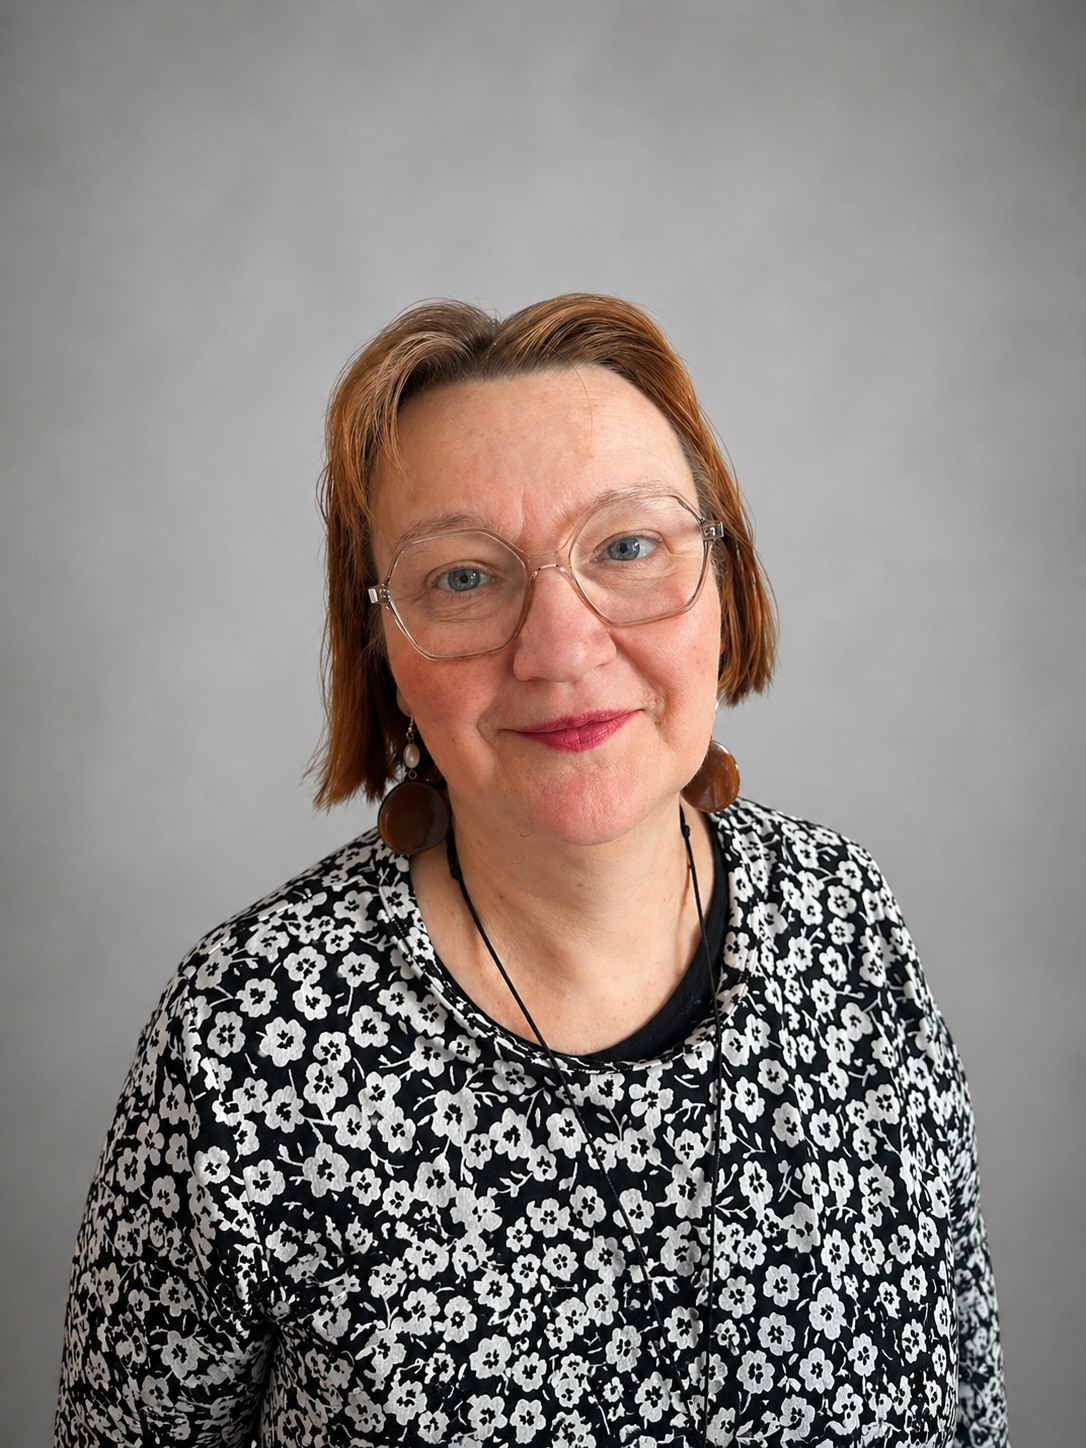
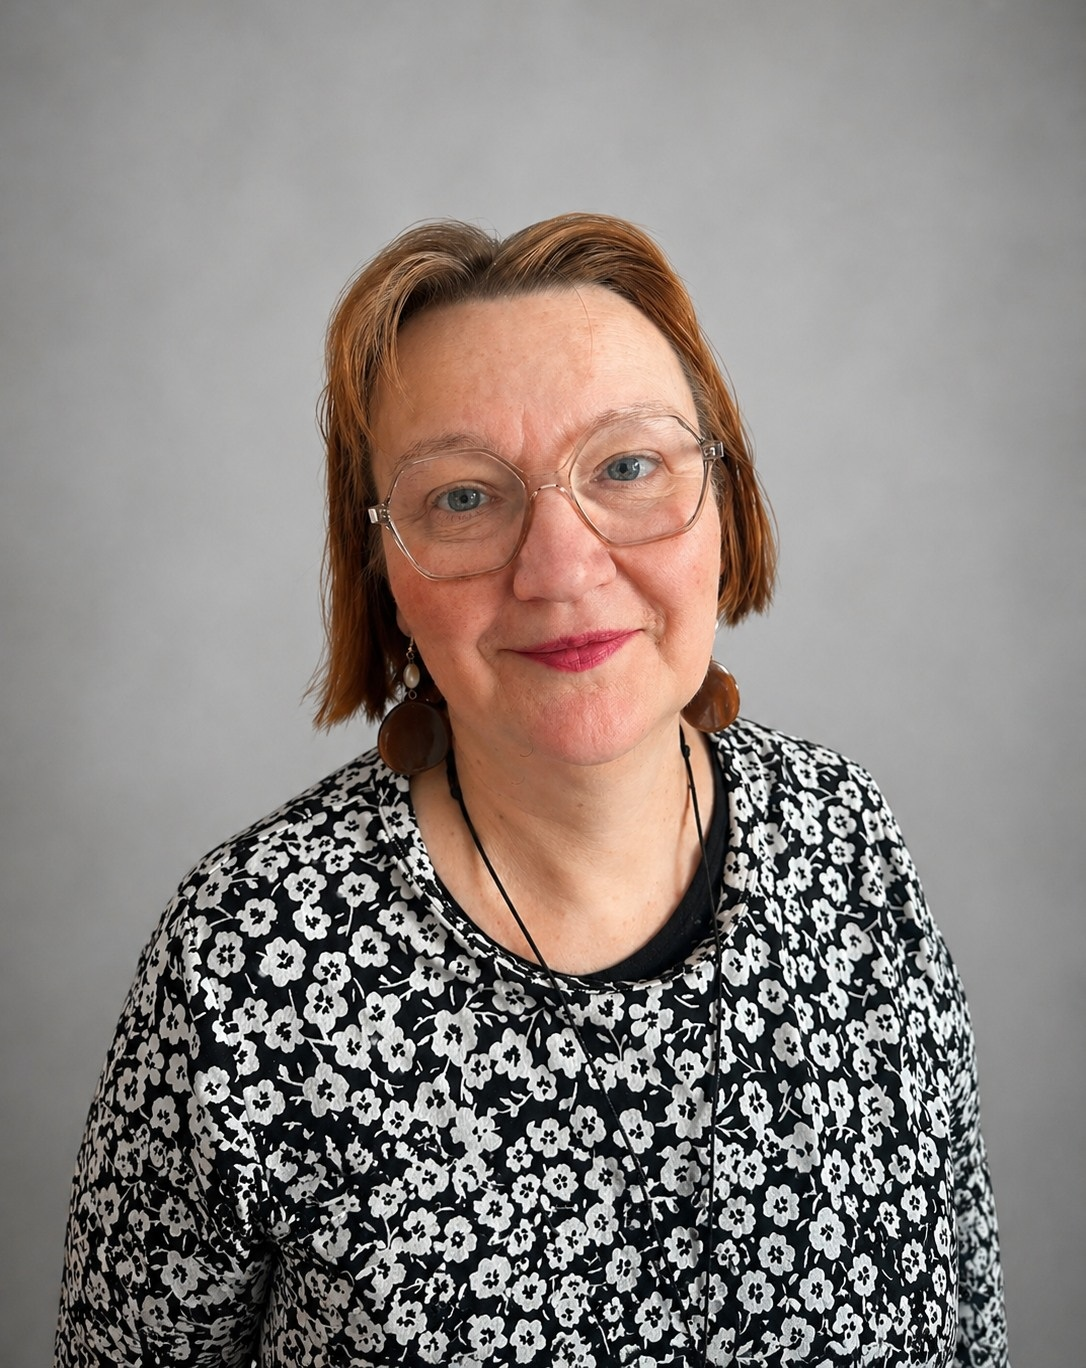
Update Dr. Nagy Mária Magdolna photo and phone number

diff --git a/doctors/dr-nagy-maria-magdolna.html b/doctors/dr-nagy-maria-magdolna.html
@@ -199,7 +199,7 @@
                     <h3>Időpontfoglalás</h3>
                     <p>Kérem, előre egyeztetett időponttal keresse fel rendelésemet.</p>
                     <div class="contact-methods">
-                        <p><strong>Telefon:</strong> +36 70 550 3989</p>
+                        <p><strong>Telefon:</strong> +36 20 494 6901</p>
                         <p><strong>E-mail:</strong> peterfy17rendelo@gmail.com</p>
                     </div>
                 </div>
